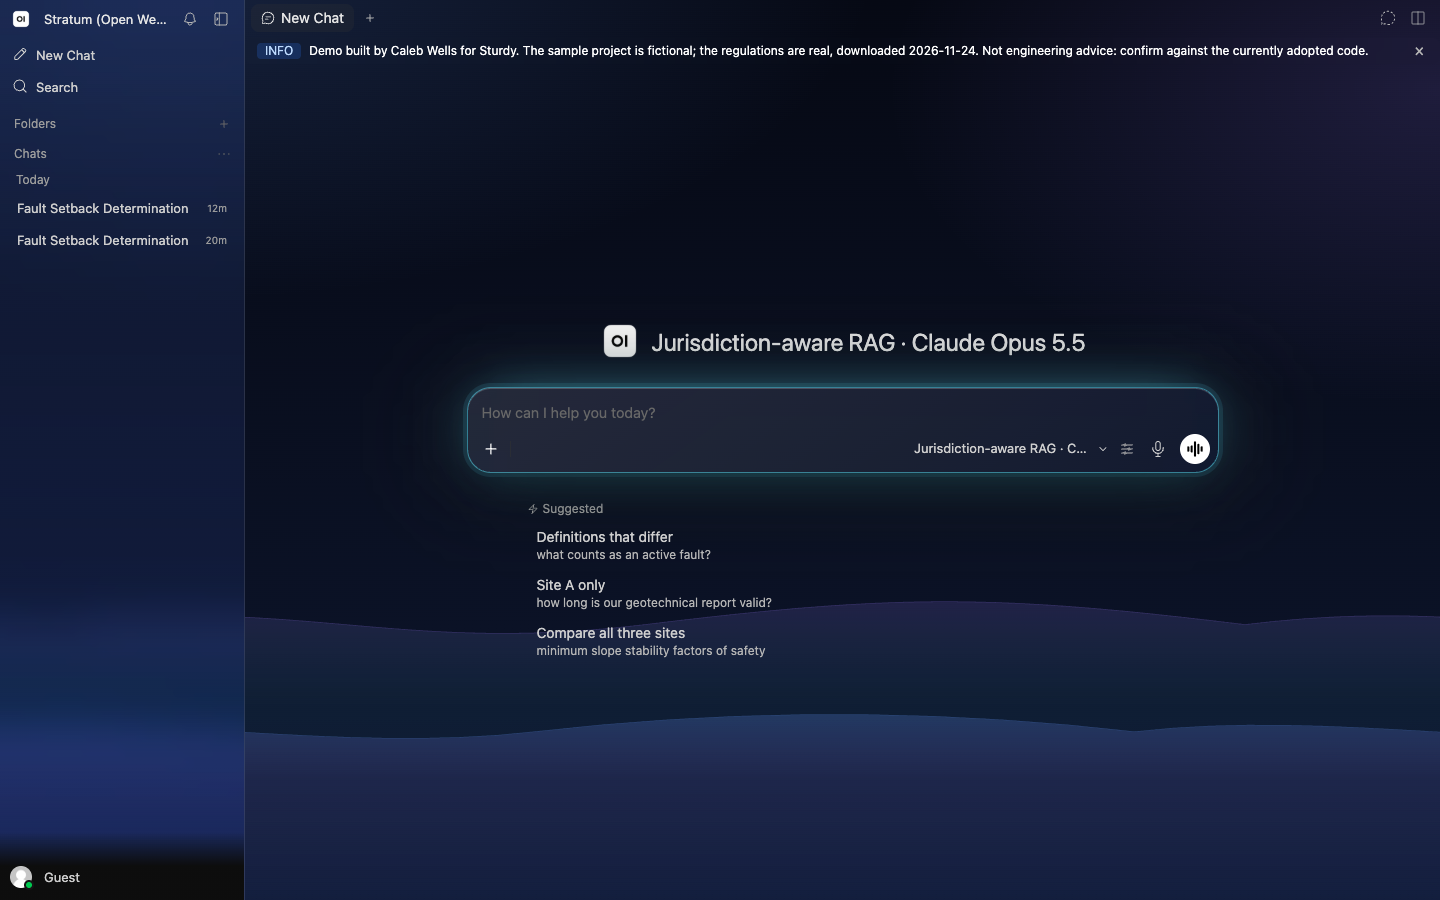
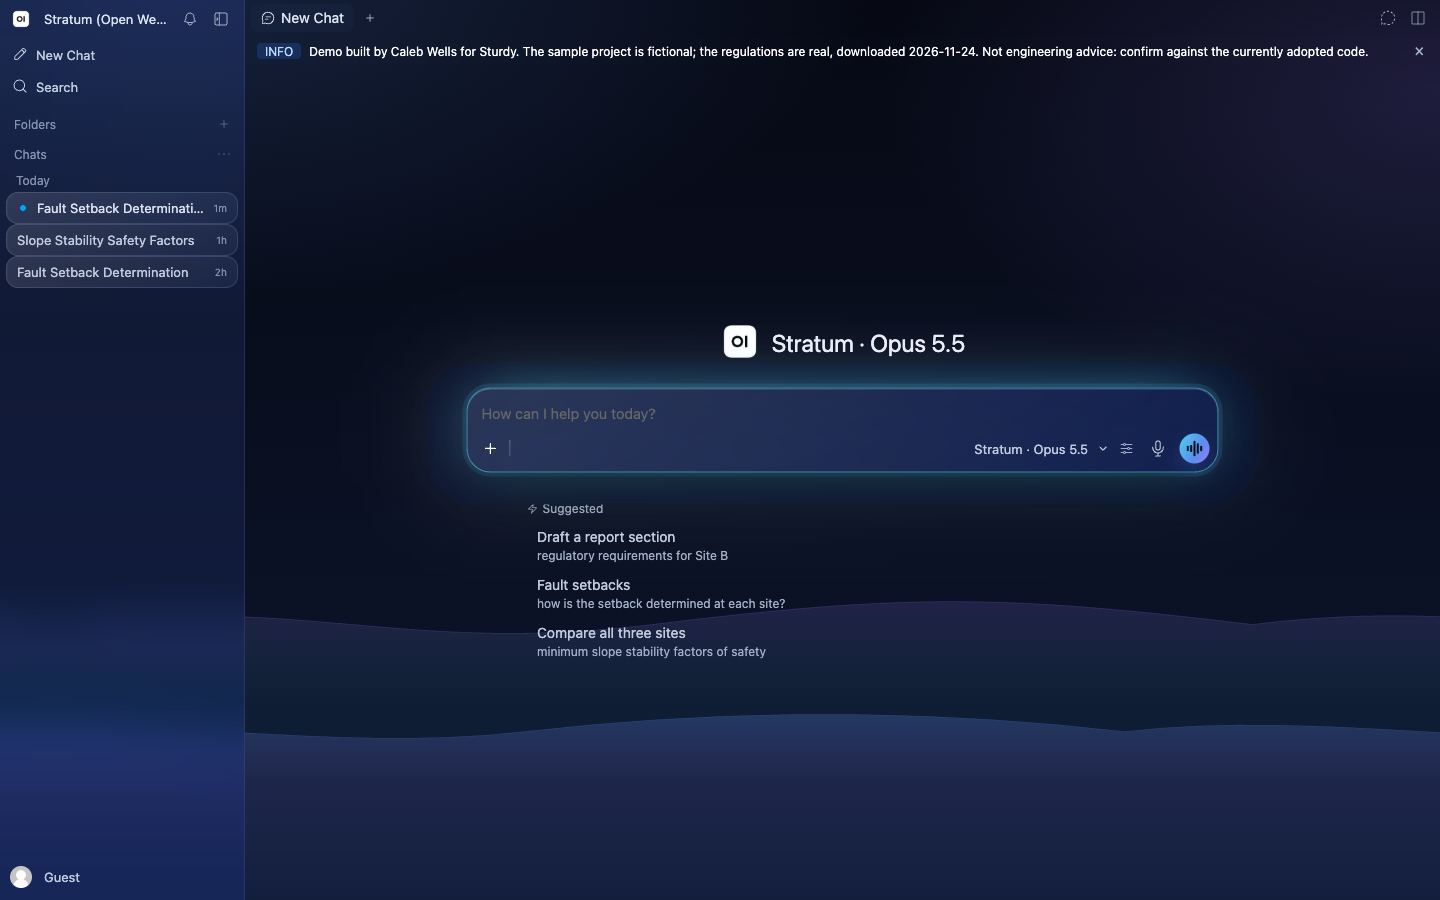
Blue retint and more glass across the app; restrict instance credentials to the retrieval container

diff --git a/services/openwebui/theme/custom.css b/services/openwebui/theme/custom.css
@@ -341,3 +341,111 @@ html.dark #sidebar [class*="dark:bg-gray-900"]:not(:hover) {
   --tw-gradient-from: transparent !important;
   --tw-gradient-stops: transparent, transparent !important;
 }
+
+/* ============================== one palette everywhere ==============================
+   Open WebUI draws nearly all dark-mode surfaces from its grey scale. Retinting that
+   scale toward the Stratum blue recolours menus, dialogs, buttons, code blocks and
+   borders together, so nothing is left in neutral grey. */
+html.dark {
+  --color-gray-50: oklch(98% 0.006 265);
+  --color-gray-100: oklch(95% 0.012 265);
+  --color-gray-200: oklch(91% 0.018 265);
+  --color-gray-300: oklch(84% 0.028 265);
+  --color-gray-400: oklch(75% 0.038 265);
+  --color-gray-500: oklch(66% 0.045 265);
+  --color-gray-600: oklch(50% 0.055 265);
+  --color-gray-700: oklch(40% 0.062 265);
+  --color-gray-800: oklch(30% 0.062 265);
+  --color-gray-850: oklch(25% 0.058 265);
+  --color-gray-900: oklch(20% 0.052 265);
+  --color-gray-950: oklch(15% 0.045 265);
+  color-scheme: dark;
+}
+
+/* ============================== more glass ============================== */
+
+/* floating layers: menus, popovers, the model picker, tooltips, dialogs */
+html.dark [role="menu"],
+html.dark [role="listbox"],
+html.dark [role="dialog"] > div:not([class*="bg-black"]),
+html.dark [data-menu-content],
+html.dark [data-dropdown-menu-content],
+html.dark [data-popover-content],
+html.dark [data-select-content],
+html.dark .tippy-box {
+  background: linear-gradient(150deg, rgba(255, 255, 255, 0.13), rgba(148, 170, 255, 0.07) 45%, rgba(155, 123, 255, 0.08)) !important;
+  -webkit-backdrop-filter: blur(28px) saturate(170%);
+  backdrop-filter: blur(28px) saturate(170%);
+  border: 1px solid var(--st-edge) !important;
+  box-shadow: inset 0 1px 0 rgba(255, 255, 255, 0.2), 0 30px 70px -20px rgba(0, 0, 0, 0.75), 0 0 60px -30px var(--st-azure) !important;
+}
+html.dark [role="menuitem"]:hover,
+html.dark [role="option"]:hover,
+html.dark [data-highlighted] {
+  background: rgba(148, 170, 255, 0.14) !important;
+}
+/* dimmed backdrop behind dialogs keeps the depth instead of flattening to black */
+html.dark [role="dialog"][class*="bg-black"],
+html.dark .modal[class*="bg-black"] {
+  background: rgba(6, 9, 20, 0.55) !important;
+  -webkit-backdrop-filter: blur(6px);
+  backdrop-filter: blur(6px);
+}
+
+/* the user's message bubble, suggestion cards, source chips, code blocks, the banner */
+html.dark #chat-pane [class*="dark:bg-gray-850"],
+html.dark #chat-pane [class*="dark:bg-gray-800"],
+html.dark #chat-pane [class*="dark:bg-gray-900"],
+html.dark #chat-pane pre,
+html.dark #chat-container [class*="dark:bg-gray-850"]:not(#message-input-container) {
+  background: linear-gradient(145deg, rgba(255, 255, 255, 0.09), rgba(148, 170, 255, 0.05)) !important;
+  -webkit-backdrop-filter: blur(16px) saturate(150%);
+  backdrop-filter: blur(16px) saturate(150%);
+  box-shadow: inset 0 0 0 1px var(--st-edge), inset 0 1px 0 rgba(255, 255, 255, 0.12);
+}
+html.dark #chat-pane button[class*="dark:bg-gray-850"]:hover,
+html.dark #chat-pane button[class*="dark:hover:bg-gray-850"]:hover,
+html.dark #chat-pane button[class*="dark:hover:bg-gray-800"]:hover {
+  background: rgba(148, 170, 255, 0.16) !important;
+  box-shadow: inset 0 0 0 1px rgba(79, 209, 232, 0.45), 0 10px 30px -14px var(--st-cyan);
+  transform: translateY(-1px);
+  transition: transform 160ms ease, box-shadow 160ms ease, background-color 160ms ease;
+}
+
+/* sidebar: selected and hovered chats light up as panes */
+html.dark #sidebar #sidebar-chat-item:hover,
+html.dark #sidebar #sidebar-chat-item[class*="bg-gray"],
+html.dark #sidebar a[class*="dark:hover:bg-gray-900"]:hover,
+html.dark #sidebar button[class*="dark:hover:bg-gray-900"]:hover {
+  background: linear-gradient(145deg, rgba(255, 255, 255, 0.12), rgba(148, 170, 255, 0.07)) !important;
+  box-shadow: inset 0 0 0 1px var(--st-edge);
+}
+
+/* send button and other solid controls pick up the accent */
+html.dark #message-input-container button[class*="bg-white"],
+html.dark #message-input-container button[class*="dark:bg-white"] {
+  background: linear-gradient(120deg, var(--st-cyan), var(--st-azure) 60%, var(--st-violet)) !important;
+  color: #061022 !important;
+  box-shadow: 0 8px 24px -8px rgba(91, 141, 239, 0.9);
+}
+
+/* answers fade up as they arrive */
+html.dark #chat-pane .chat-assistant,
+html.dark #chat-pane .chat-user {
+  animation: st-rise 420ms cubic-bezier(0.2, 0.8, 0.2, 1) both;
+}
+
+/* thin, tinted scrollbars */
+html.dark * {
+  scrollbar-color: rgba(148, 170, 255, 0.28) transparent;
+}
+
+@media (prefers-reduced-motion: reduce) {
+  html.dark #chat-pane .chat-assistant,
+  html.dark #chat-pane .chat-user,
+  html.dark #chat-pane button {
+    animation: none !important;
+    transition: none !important;
+    transform: none !important;
+  }
+}

diff --git a/infra/lib/stratum-stack.ts b/infra/lib/stratum-stack.ts
@@ -138,7 +138,9 @@ export class StratumStack extends cdk.Stack {
       role,
       userData,
       requireImdsv2: true,
-      httpPutResponseHopLimit: 2,        // containers reach the instance role through one extra hop
+      // 2 lets a container use the instance role. deploy/server-setup.sh firewalls the metadata
+      // address so that only the retrieval container can, and refuses to go live otherwise.
+      httpPutResponseHopLimit: 2,
       userDataCausesReplacement: false,
       blockDevices: [{
         deviceName: "/dev/xvda",
